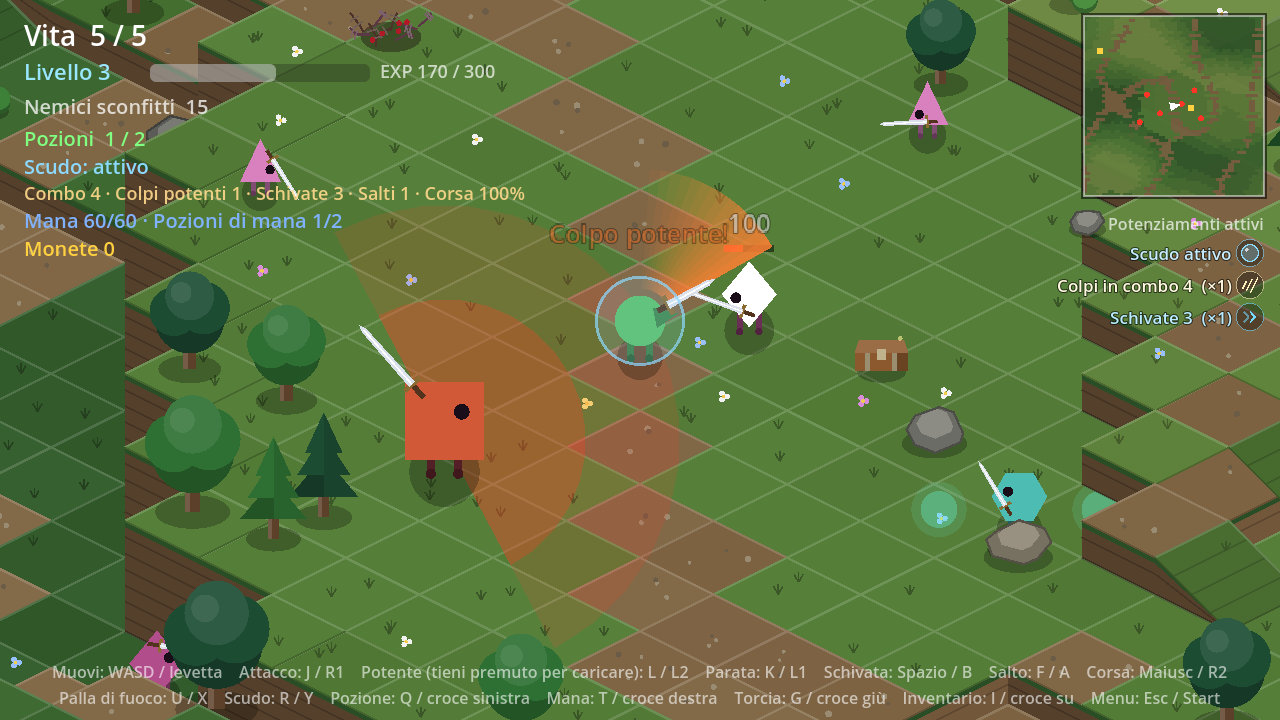
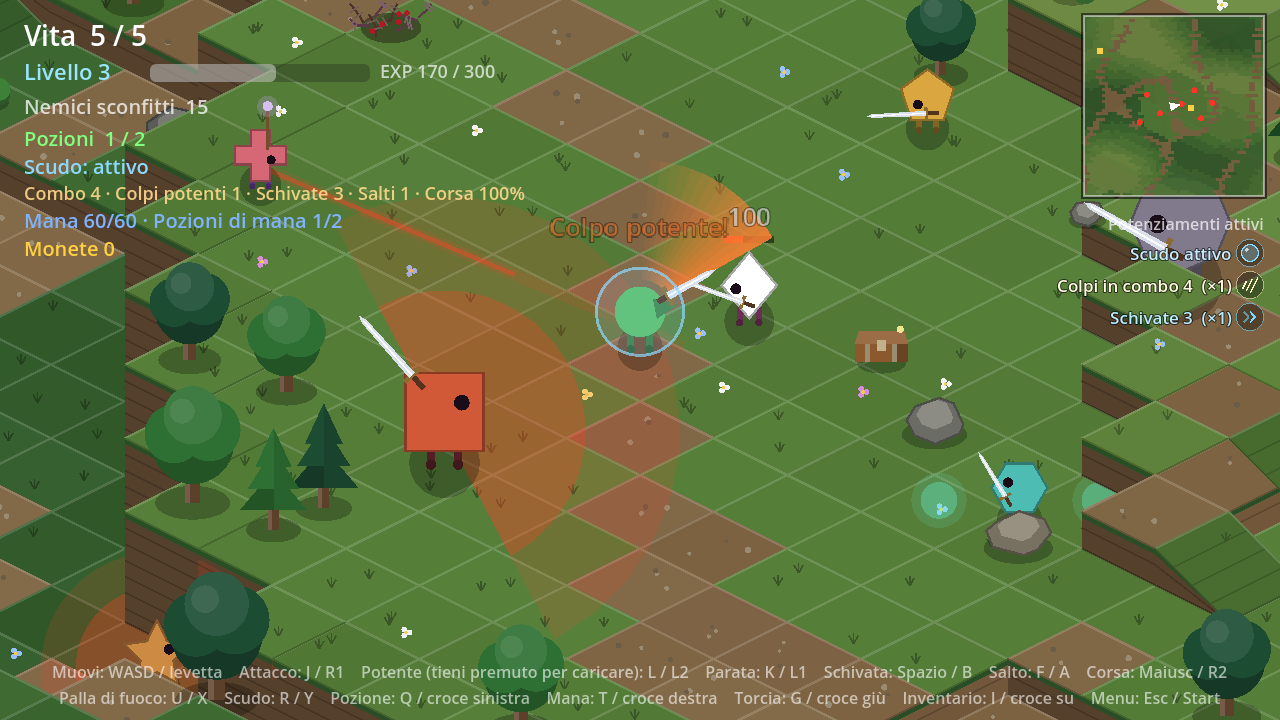
Movimenti più morbidi e nuovi nemici
- Telecamera con movimento morbido che anticipa un poco la direzione;
  accelerazione e frenata più dolci; il corpo del giocatore ondeggia
  camminando, si inclina correndo e si schiaccia atterrando.
- Nemici: lo sguardo ruota con continuità, ondeggiano camminando e alla
  morte si rompono in frammenti geometrici.
- Quattro nuovi tipi (data/enemies.json): lanciere (pentagono, affondo
  lungo e stretto), rotante (stella, colpisce tutto attorno), golem
  (ottagono, lento e resistentissimo) e lanciatore (croce, scaglia dardi
  magici da lontano, scripts/enemy_bolt.gd).
- Documentazione, pagina itch.io, copertina e screenshot aggiornati.

Claude-Session: https://claude.ai/code/session_01RZiywFjVqLoW3b1UN9Ro6e

diff --git a/README.md b/README.md
@@ -75,7 +75,7 @@ All'avvio c'è un menù (Inizia / Esci / lingua). Il livello di test è un mondo
 | Inventario | I / Tab | croce su | pulsante "Zaino" |
 | Torna al menù | Esc | Start | pulsante "Menu" |
 
-- **Movimento**: accelerazione e frenata, con interpolazione fisica per restare fluido anche su schermi a 90/120 Hz.
+- **Movimento**: accelerazione e frenata morbide, con interpolazione fisica per restare fluido anche su schermi a 90/120 Hz. La telecamera segue con dolcezza e anticipa un poco la direzione di movimento; il corpo ondeggia camminando, si inclina nella direzione di corsa e si schiaccia atterrando.
 - **Mondo** (`scripts/world.gd`, parametri in `data/world.json`): terreno isometrico 3D a blocchi quadrati modulari (erba o sentiero sterrato sopra, pareti di terra a strati ai lati) disposti su 6 livelli di altezza presi dal rumore, che formano piattaforme a gradini, colline e altopiani; alcuni blocchi sono rampe inclinate che salgono di un livello. Si sale su un blocco più alto solo saltando abbastanza in alto (il salto normale supera 1-2 livelli, per dislivelli maggiori servono i salti in aria) e si scende cadendo dal bordo; i nemici non saltano e restano sul loro livello, salvo le rampe. Colpi dati e ricevuti arrivano solo tra chi sta più o meno alla stessa altezza. Ostacoli naturali (`scripts/obstacle.gd`), pochi e mai sui sentieri: alberi e sassi bloccano, cespugli e rovi rallentano (non durante schivate e scivolate) e i rovi pungono (1 danno ogni 2 secondi). La partenza è sempre in piano e libera. Il mondo viene generato a pezzi attorno alla telecamera; i blocchi più alti di quelli dietro vengono ridisegnati tra i personaggi, così coprono chi ci passa dietro.
 - **Combo**: attacchi ravvicinati formano una combo (3 colpi all'inizio); ogni colpo fa il 50% in più del precedente. Le pressioni in più a combo finita vengono ignorate. Mentre si attacca ci si può muovere (più piano) in qualsiasi direzione, ma il colpo resta nella direzione in cui è partito. Ogni attacco è un fendente di spada, una volta da sinistra e una da destra.
 - **Colpo potente**: più lento e ampio, 2,5 volte i danni base; in fondo a una combo prende anche il bonus dei colpi già fatti. Chiude la combo, a meno di aver sbloccato altri colpi potenti concatenati (ognuno +50% del precedente). Tenendo premuto il tasto si carica (anello attorno al personaggio): in 0,9 secondi arriva al massimo, che raddoppia il danno.
@@ -92,7 +92,7 @@ All'avvio c'è un menù (Inizia / Esci / lingua). Il livello di test è un mondo
 - **Interruzioni**: schivata e parata si possono usare in qualsiasi momento, anche durante una combo, che si interrompe; attaccare durante una schivata la interrompe e attacca subito.
 - **Schivata**: invulnerabilità per un istante; premendo di nuovo durante la schivata (o subito dopo) se ne concatena un'altra (2 all'inizio). Per tutta la schivata la direzione segue la levetta (subito all'inizio, poi curvando), così ci si può spostare in altre direzioni.
 - **Esperienza e livelli**: ogni nemico sconfitto dà esperienza; servono 100 punti per il livello 2, 200 per il 3 e così via. Ogni livello aumenta i danni base e fa scegliere un potenziamento: +1 colpo nella combo, +1 colpo potente concatenato, +1 schivata concatenata, +1 salto, +1 punto vita, +1 pozione, ricarica dello scudo -2%, velocità di corsa +2%, mana massimo +20 o potenza della magia +20%. I potenziamenti si scelgono da una griglia di schede con icone geometriche (`scripts/upgrade_icon.gd`); i livelli delle abilità sono mostrati nell'HUD e i potenziamenti attivi (scelti ed effetti temporanei come la parata perfetta e lo scudo) sono elencati a destra.
-- **Nemici** (`data/enemies.json`): esploratori rapidi, guerrieri, bruti lenti e resistenti che fanno 2 danni, evocatori che restano a distanza ed evocano esploratori (colpirli mentre evocano li interrompe). Girano attorno al giocatore con scatti laterali; l'attacco è un fendente di spada lento e ampio (alternato da sinistra e da destra), annunciato dalla zona rossa a terra, con durata variabile, finte e secondi attacchi. Salendo di livello compaiono più spesso i nemici forti. Giocatore e nemici hanno le gambe, che camminano mentre si muovono.
+- **Nemici** (`data/enemies.json`): esploratori rapidi, guerrieri, bruti lenti e resistenti che fanno 2 danni, evocatori che restano a distanza ed evocano esploratori (colpirli mentre evocano li interrompe), lancieri (pentagoni) con un affondo lungo e stretto, rotanti (stelle) che colpiscono tutto attorno, golem (ottagoni) lentissimi e resistentissimi dal livello 2, lanciatori (croci) che restano a distanza e scagliano dardi magici da schivare o parare. Lo sguardo dei nemici ruota con continuità, camminando ondeggiano e alla morte si rompono in frammenti. Girano attorno al giocatore con scatti laterali; l'attacco è un fendente di spada lento e ampio (alternato da sinistra e da destra), annunciato dalla zona rossa a terra, con durata variabile, finte e secondi attacchi. Salendo di livello compaiono più spesso i nemici forti. Giocatore e nemici hanno le gambe, che camminano mentre si muovono.
 - **Sfide del totem** (`data/challenge.json`): qua e là ci sono arene, ampie zone piane e senza ostacoli con al centro un totem di pietra. Toccandolo parte una sfida di sopravvivenza di 30 secondi: arrivano tre ondate di nemici dal bordo dell'arena, più numerose e più forti salendo di livello. Superarla dà esperienza (60 × livello) e una pozione; ogni totem si usa una volta sola.
 
 ## Steam Deck

diff --git a/store/itch/README.md b/store/itch/README.md
@@ -72,7 +72,7 @@ IN THIS PROTOTYPE
 - Jump over enemy attacks (unlock multiple jumps in mid-air) and combine jumps with dodges
 - Hold R2 to run; dodge while running to slide, and attack, dodge, jump or parry out of the slide
 - Healing potions (you start with 2) and a magic shield that absorbs one hit, recharging in 30 seconds
-- Four kinds of enemies: quick scouts, warriors, heavy brutes and summoners that call in reinforcements (hit them while they summon to interrupt them)
+- Eight kinds of enemies: quick scouts, warriors, heavy brutes, summoners that call in reinforcements (hit them while they summon to interrupt them), lancers with long thrusts, whirlers that strike all around, huge golems and casters that hurl magic bolts from afar
 - Enemies circle around you with quick sidesteps; their sword slashes are slow and wide but unpredictable: watch the red area on the ground, beware of feints and follow-up strikes
 - Hold the power strike to charge it up to double damage; every hit you land shakes the controller and freezes the action for an instant
 - Cast fireballs that seek out and chase the nearest enemy (they cost mana: drink mana potions to refill)
@@ -120,7 +120,7 @@ IN QUESTO PROTOTIPO
 - Salta per evitare gli attacchi dei nemici (sblocca più salti in aria) e combina salti e schivate
 - Tieni premuto R2 per correre; schiva mentre corri per una scivolata, da cui puoi attaccare, schivare, saltare o parare
 - Pozioni curative (ne hai 2 all'inizio) e uno scudo magico che assorbe un colpo e si ricarica in 30 secondi
-- Quattro tipi di nemici: esploratori rapidi, guerrieri, bruti corazzati ed evocatori che chiamano rinforzi (colpiscili mentre evocano per interromperli)
+- Otto tipi di nemici: esploratori rapidi, guerrieri, bruti corazzati, evocatori che chiamano rinforzi (colpiscili mentre evocano per interromperli), lancieri con affondi lunghi, rotanti che colpiscono tutto attorno, golem enormi e lanciatori che scagliano dardi magici da lontano
 - I nemici ti girano attorno con scatti laterali; i loro fendenti di spada sono lenti e ampi ma imprevedibili: guarda la zona rossa a terra, attento alle finte e ai secondi colpi
 - Tieni premuto il colpo potente per caricarlo fino al doppio del danno; ogni colpo a segno fa vibrare il controller e ferma l'azione per un istante
 - Lancia palle di fuoco che cercano e inseguono il nemico più vicino (costano mana: bevi le pozioni di mana per ricaricarlo)
